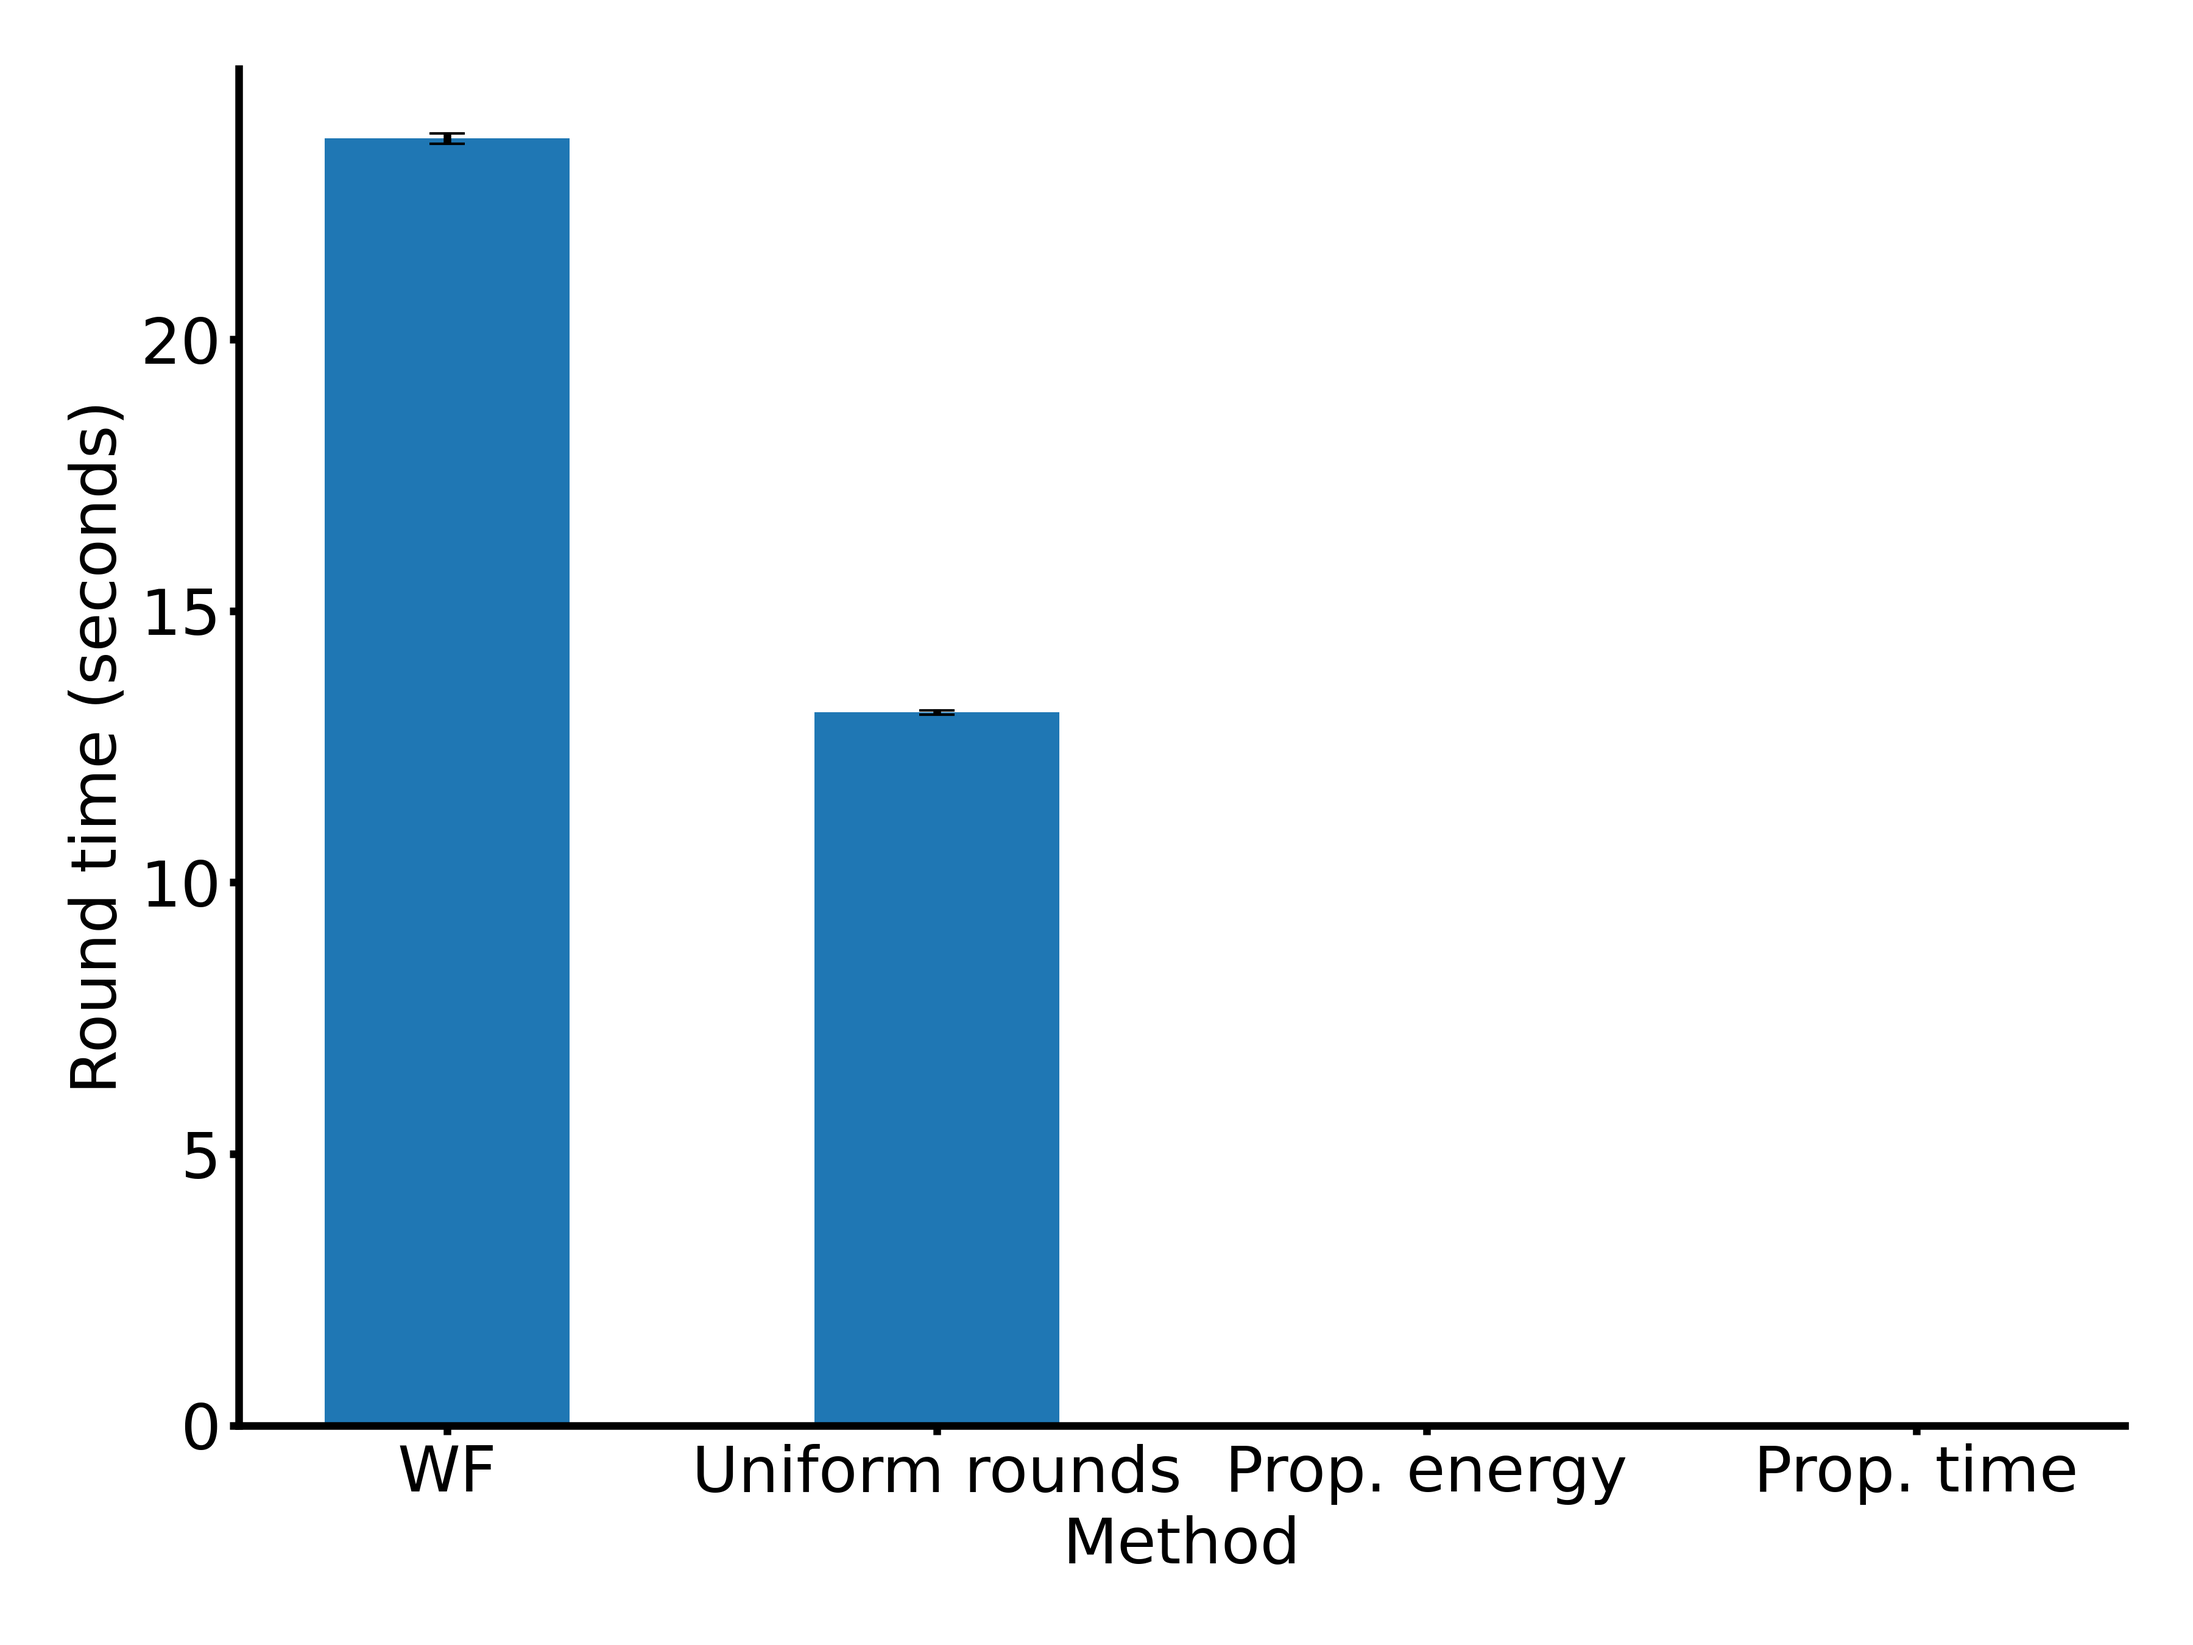
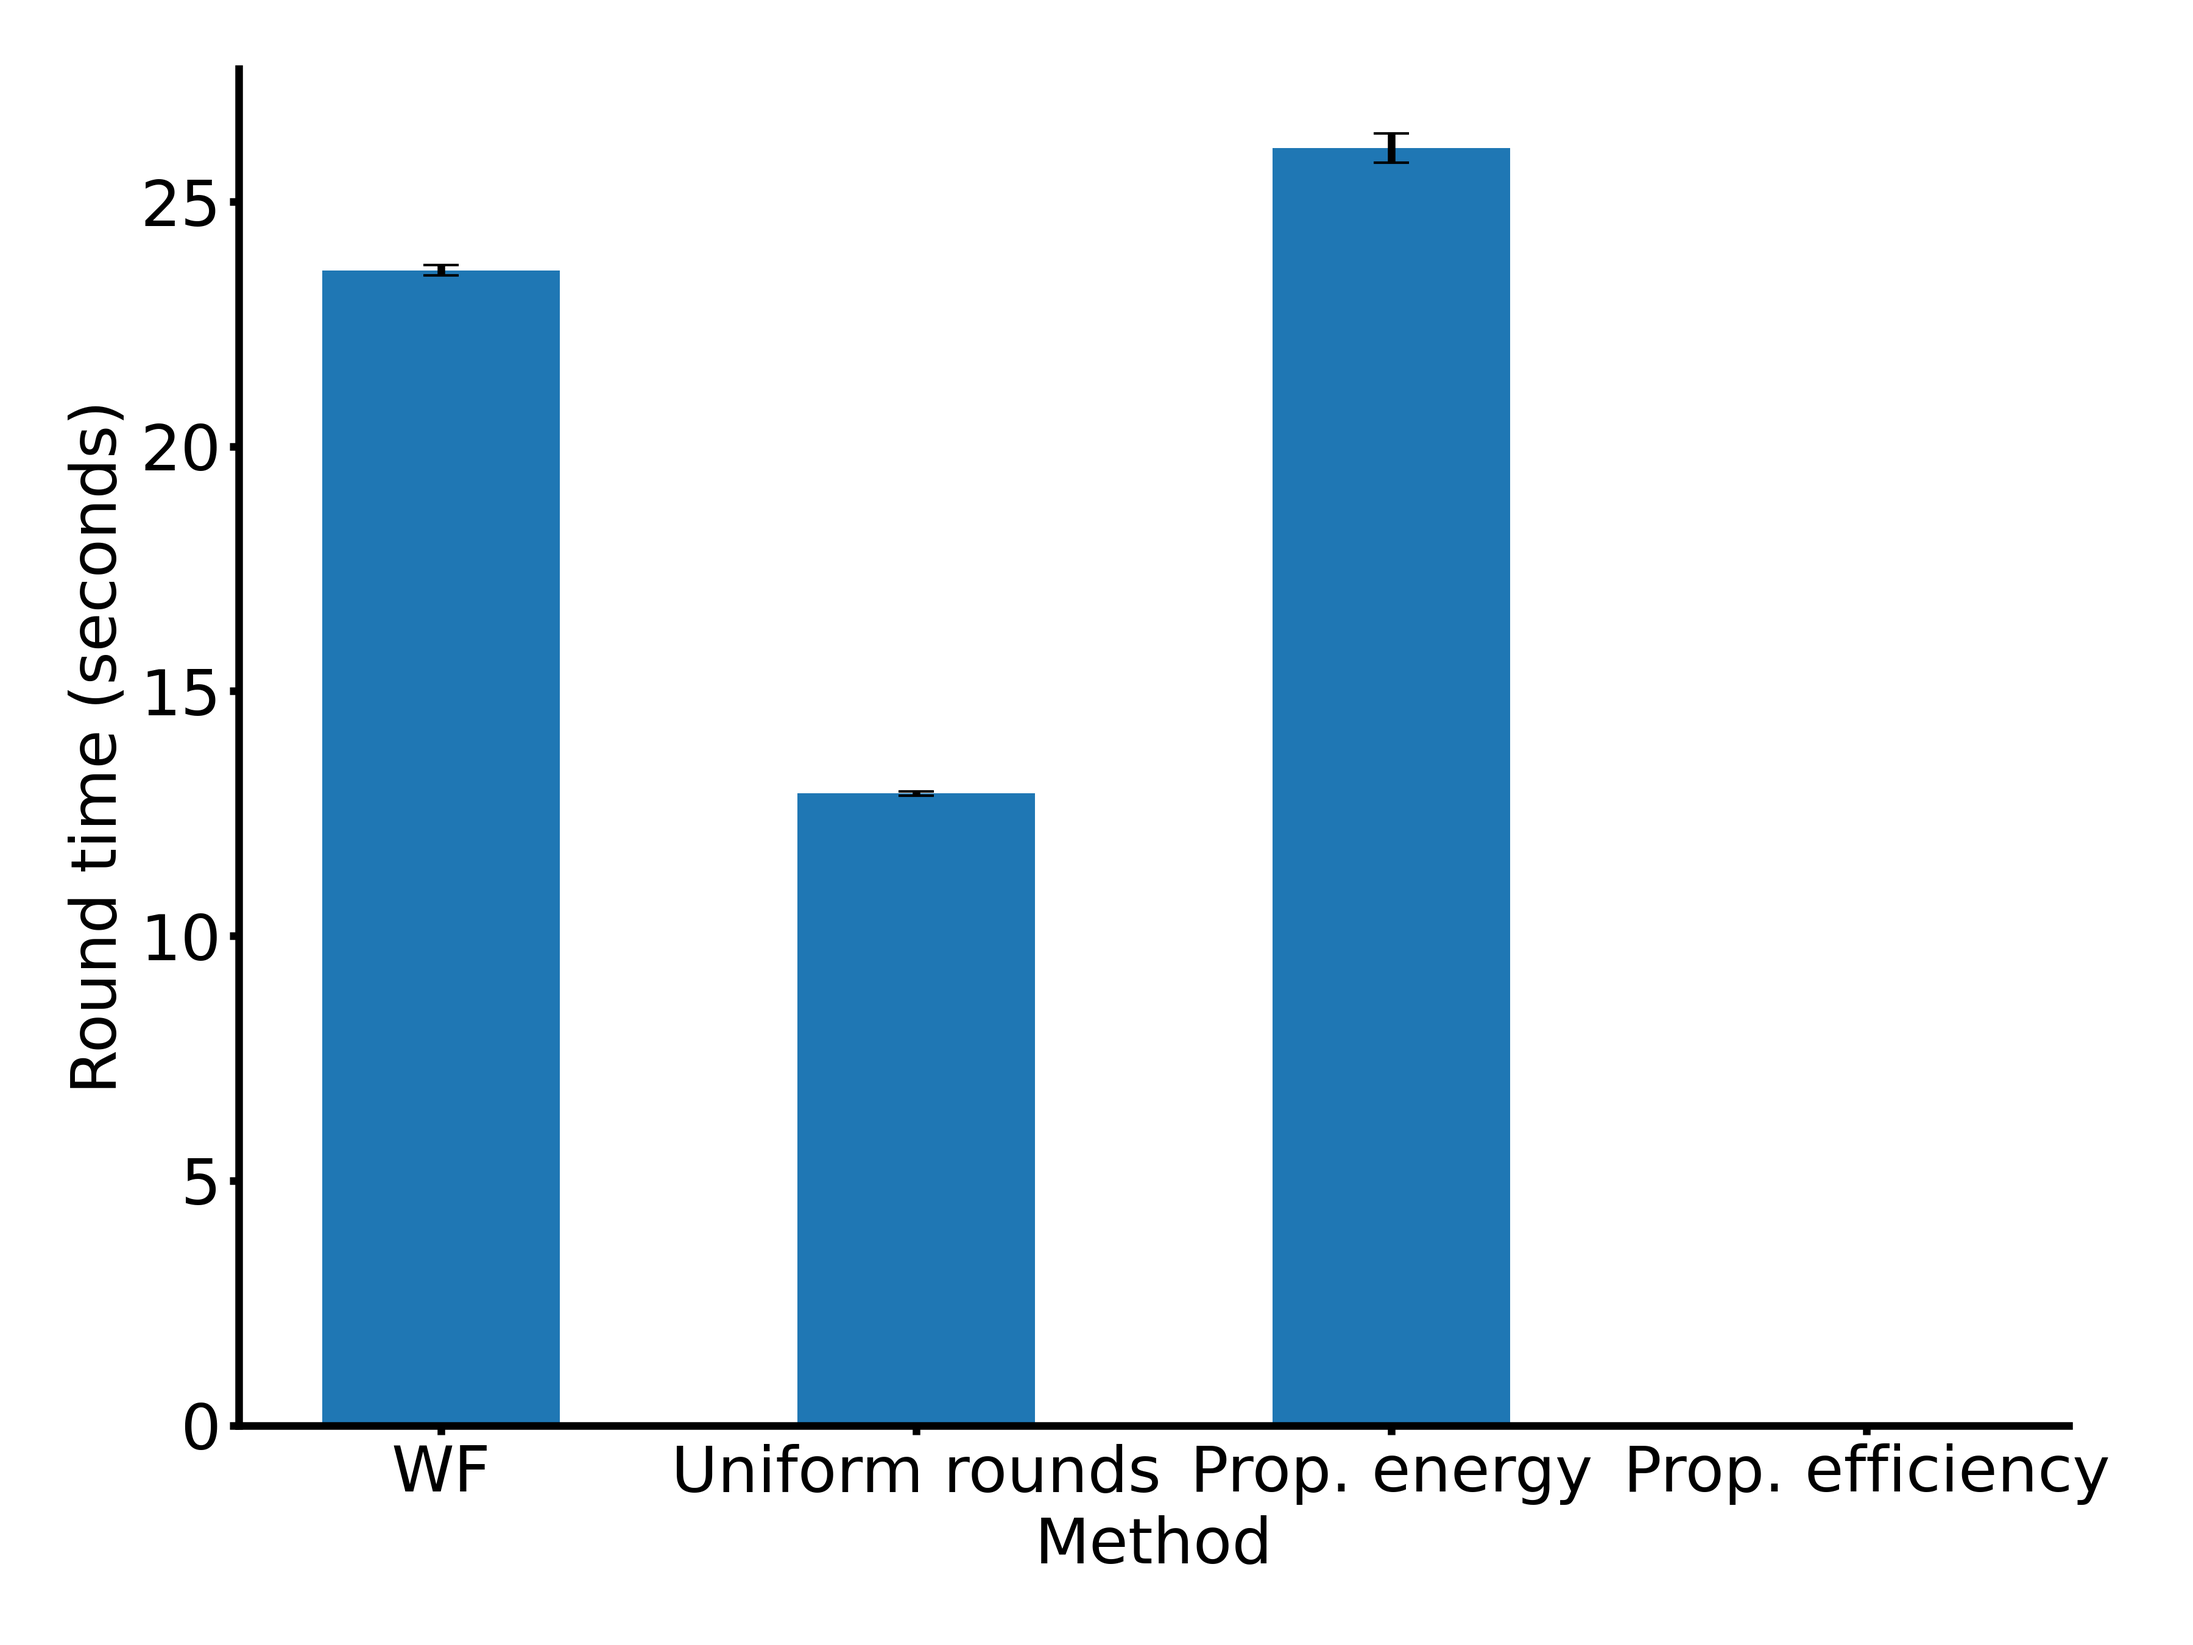
Proxy proportional to energy

diff --git a/random_problems.py b/random_problems.py
@@ -94,6 +94,40 @@ def run_uniform(clients_for_each_run, min_epochs, max_time):
     print(f"Gap = {np.mean(gaps)} +- {stats.sem(gaps) * stats.t.ppf((1+0.95)/2., len(gaps)-1)}s")
     print(f"Energy std. dev. = {np.mean(energy_stdevs)} +- {stats.sem(energy_stdevs) * stats.t.ppf((1+0.95)/2., len(gaps)-1)}s")
 
+
+def run_proportional_energy(clients_for_each_run, min_epochs, max_time):
+    num_executions = len(clients_for_each_run)
+    durations = np.zeros(num_executions)
+    energies = np.zeros(num_executions)
+    final_to_initial_energies = np.zeros(num_executions)
+    utilities = np.zeros(num_executions)
+    gaps = np.zeros(num_executions)
+    times = np.zeros(num_executions)
+    energy_stdevs = np.zeros(num_executions)
+
+    for i, clients in enumerate(clients_for_each_run):
+
+        p = ProportionalEnergySolver(clients, min_epochs, max_time, is_log_active=log)
+        p.solve()
+
+        durations[i] = p.elapsed_time
+        energies[i] = p.energy/num_clients
+        final_to_initial_energies[i] = 1-p.energy/p.initial_energy
+        utilities[i] = p.log_energy
+        gaps[i] = p.gap
+        times[i] = p.time
+        energy_stdevs[i] = p.stdev
+
+    print(f"-----------------------------")
+    print(f"Proportional to initial energy")
+    print(f"Execution time = {np.mean(durations)} +- {stats.sem(durations) * stats.t.ppf((1+0.95)/2., len(durations)-1)}s")
+    print(f"Round time = {np.mean(times)} +- {stats.sem(times) * stats.t.ppf((1+0.95)/2., len(times)-1)}s")
+    print(f"Energy = {np.mean(energies)} +- {stats.sem(energies) * stats.t.ppf((1+0.95)/2., len(energies)-1)}s")
+    print(f"Energy drop factor = {np.mean(final_to_initial_energies)} +- {stats.sem(final_to_initial_energies) * stats.t.ppf((1+0.95)/2., len(energies)-1)}s")
+    print(f"Utility = {np.mean(utilities)} +- {stats.sem(utilities) * stats.t.ppf((1+0.95)/2., len(utilities)-1)}s")
+    print(f"Gap = {np.mean(gaps)} +- {stats.sem(gaps) * stats.t.ppf((1+0.95)/2., len(gaps)-1)}s")
+    print(f"Energy std. dev. = {np.mean(energy_stdevs)} +- {stats.sem(energy_stdevs) * stats.t.ppf((1+0.95)/2., len(gaps)-1)}s")
+
 if __name__ == "__main__":
     num_clients = int(sys.argv[1]) 
     if len(sys.argv) > 2:
@@ -110,3 +144,5 @@ if __name__ == "__main__":
     run_wf(clients_for_each_run.copy(), min_epochs, max_time)
 
     run_uniform(clients_for_each_run.copy(), min_epochs, max_time)
+
+    run_proportional_energy(clients_for_each_run.copy(), min_epochs, max_time)

diff --git a/proxy_solvers.py b/proxy_solvers.py
@@ -81,3 +81,69 @@ class UniformSolver(Solver):
 
         self._report()
 
+class ProportionalEnergySolver(Solver):
+    def __init__(
+        self,
+        clients_list:list,
+        num_min_epochs:int,
+        time_budget:float,
+        is_log_active=True) -> None:
+        
+        super().__init__(clients_list,num_min_epochs,time_budget,is_log_active)
+
+    def solve(self):
+        start_time = time()
+
+        total_energy = 0
+        for client in self.clients_list:
+            total_energy += client.Eio 
+
+        r_list = []
+        for client in self.clients_list:
+            r_list.append(self.R * client.Eio/total_energy)
+        
+        self.new_clients_list = []
+        for i, client in enumerate(self.clients_list):
+            client.compute(r_list[i], self.csi)
+            self.new_clients_list.append(client)
+
+        self.clients_list = self.new_clients_list
+
+        self.elapsed_time = time()-start_time
+
+        self._report()
+
+class ProportionalEfficiencySolver(Solver):
+    def __init__(
+        self,
+        clients_list:list,
+        num_min_epochs:int,
+        time_budget:float,
+        is_log_active=True) -> None:
+        
+        super().__init__(clients_list,num_min_epochs,time_budget,is_log_active)
+
+    def solve(self):
+        start_time = time()
+
+        total_inverse_round_power = 0
+        for c in self.clients_list:
+            round_consumption = c.P_down_avg - c.Pi + c.epsilon_i/c.tau_i 
+            print(c.epsilon_i)
+            total_inverse_round_power +=  1/round_consumption
+
+        r_list = []
+        for c in self.clients_list:
+            round_consumption = c.P_down_avg - c.Pi + c.epsilon_i/c.tau_i 
+            r_list.append(self.R * (1/round_consumption) / total_inverse_round_power)
+        
+        self.new_clients_list = []
+        for i, client in enumerate(self.clients_list):
+            client.compute(r_list[i], self.csi)
+            self.new_clients_list.append(client)
+
+        self.clients_list = self.new_clients_list
+
+        self.elapsed_time = time()-start_time
+
+        self._report()

diff --git a/test_proxies.py b/test_proxies.py
@@ -1,4 +1,4 @@
-from proxy_solvers import UniformSolver
+from proxy_solvers import *
 from client import Client
 from cases.case4 import *
 
@@ -24,7 +24,21 @@ for i, client_parameters in enumerate(clients_parameters):
     clients_list.append(client)
 
 problem = UniformSolver(
-    clients_list=clients_list,
+    clients_list=clients_list.copy(),
+    num_min_epochs=num_min_epochs,
+    time_budget=time_budget
+)
+problem.solve()
+
+problem = ProportionalEnergySolver(
+    clients_list=clients_list.copy(),
+    num_min_epochs=num_min_epochs,
+    time_budget=time_budget
+)
+problem.solve()
+
+problem = ProportionalEfficiencySolver(
+    clients_list=clients_list.copy(),
     num_min_epochs=num_min_epochs,
     time_budget=time_budget
 )

diff --git a/plots/plot_energy_stdev.py b/plots/plot_energy_stdev.py
@@ -4,9 +4,9 @@ import numpy as np
 # Use your custom style
 plt.style.use('~/guiaraujo.mplstyle')
 
-solvers = ["WF","Uniform rounds","Prop. energy","Prop. time"]
-stdev_soc_10_to_40 = [4464,4713,0,0]
-stdev_soc_10_to_40_err = [68, 3,0,0]
+solvers = ["WF","Uniform rounds","Prop. energy","Prop. efficiency"]
+stdev_soc_10_to_40 = [6385,6751,8225, 0]
+stdev_soc_10_to_40_err = [67, 66, 79, 0]
 
 x = np.arange(len(solvers))
 
@@ -24,7 +24,7 @@ ax.set_xticks(x)
 ax.set_xticklabels(solvers)
 ax.set_xlabel("Method")
 ax.set_ylabel("Energy standard deviation")
-ax.set_ylim(4000,5000)
+ax.set_ylim(6000,9000)
 
 plt.tight_layout()
 plt.savefig("plots/stdev_soc.png", dpi=300)

diff --git a/plots/plot_drop_factor.py b/plots/plot_drop_factor.py
@@ -4,9 +4,9 @@ import numpy as np
 # Use your custom style
 plt.style.use('~/guiaraujo.mplstyle')
 
-solvers = ["WF","Uniform rounds","Prop. energy","Prop. time"]
-drop_factor_10_to_40 = [1.53, 1.79, 0, 0]
-drop_factor_10_to_40_err = [0.02, 0.01, 0, 0]
+solvers = ["WF","Uniform rounds","Prop. energy","Prop. efficiency"]
+drop_factor_10_to_40 = [1.53, 1.79, 1.79, 0]
+drop_factor_10_to_40_err = [0.02, 0.01, 0.02, 0]
 
 x = np.arange(len(solvers))
 

diff --git a/plots/plot_solver_time.py b/plots/plot_solver_time.py
@@ -4,9 +4,9 @@ import numpy as np
 # Use your custom style
 plt.style.use('~/guiaraujo.mplstyle')
 
-solvers = ["WF","Uniform rounds","Prop. energy","Prop. time"]
-times_soc_10_to_40 = [3470, 164, 0, 0]
-times_soc_10_to_40_err = [52, 3.6, 0, 0]
+solvers = ["WF","Uniform rounds","Prop. energy","Prop. efficiency"]
+times_soc_10_to_40 = [1565, 87, 102, 0]
+times_soc_10_to_40_err = [30, 1, 1, 0]
 
 x = np.arange(len(solvers))
 

diff --git a/plots/plot_round_time.py b/plots/plot_round_time.py
@@ -4,9 +4,9 @@ import numpy as np
 # Use your custom style
 plt.style.use('~/guiaraujo.mplstyle')
 
-solvers = ["WF","Uniform rounds","Prop. energy","Prop. time"]
-times_10_to_40 = [23.7, 13.13, 0, 0]
-times_10_to_40_err = [0.1, 0.04, 0, 0]
+solvers = ["WF","Uniform rounds","Prop. energy","Prop. efficiency"]
+times_10_to_40 = [23.6, 12.91, 26.1, 0]
+times_10_to_40_err = [0.1, 0.04, 0.3, 0]
 
 x = np.arange(len(solvers))
 
